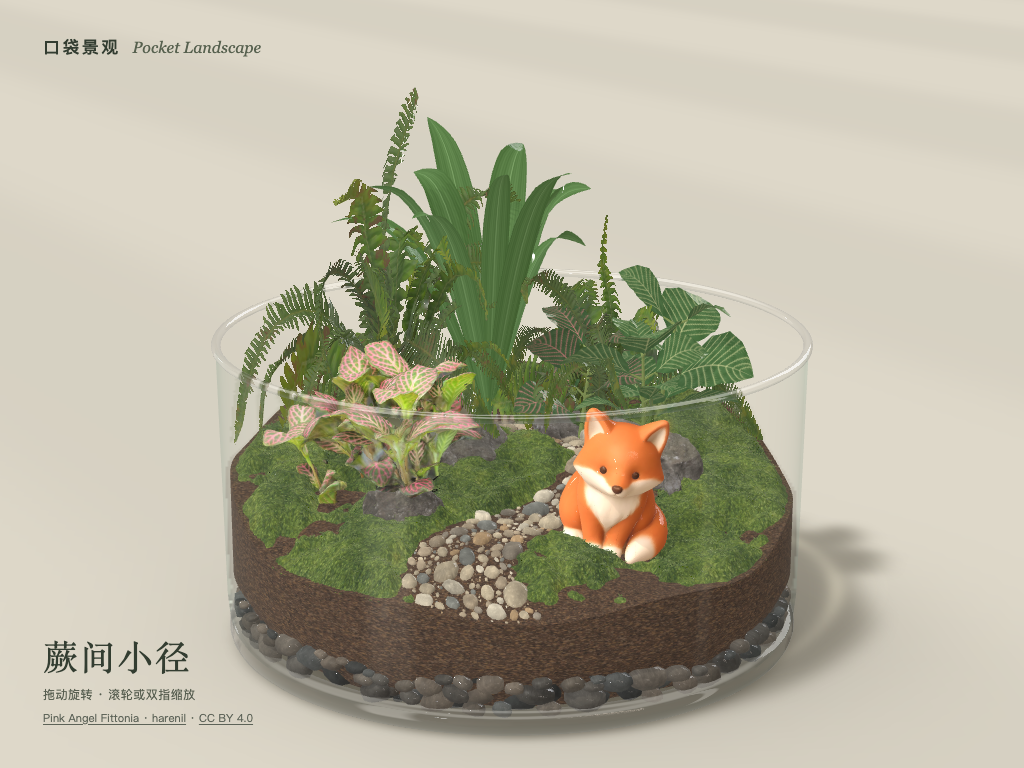
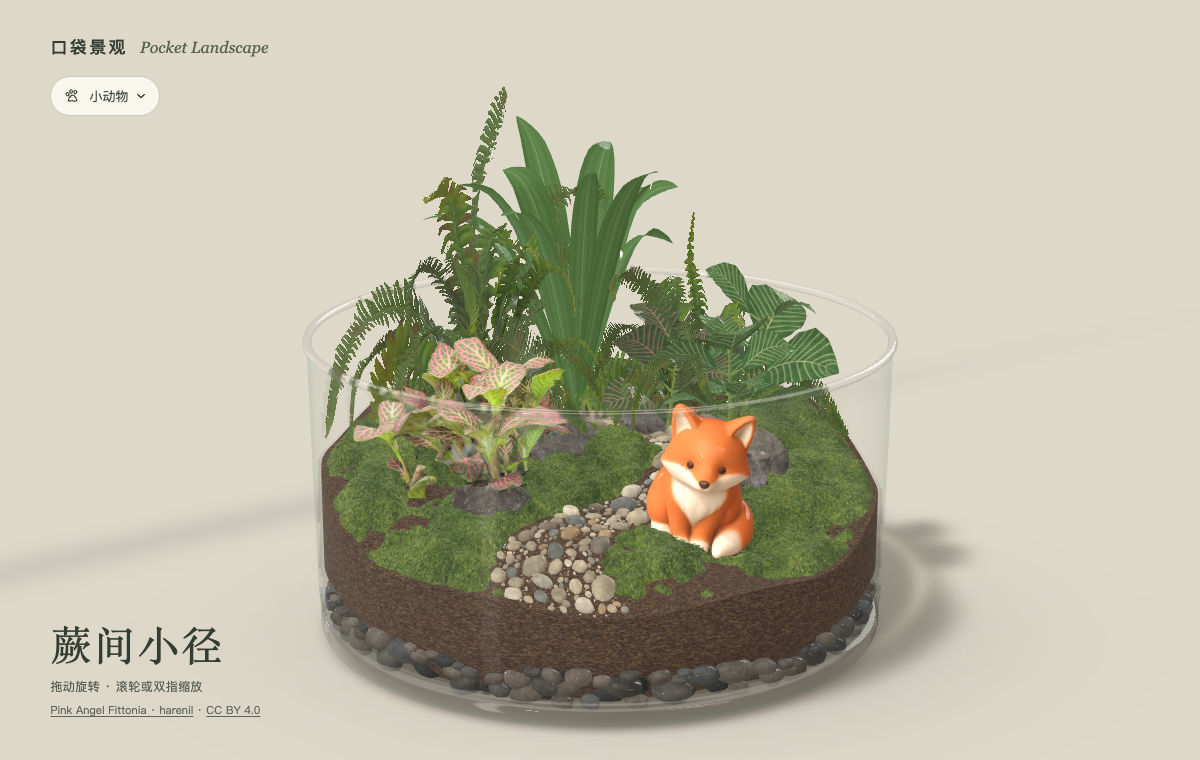
用桌面柔影和杯沿窄高光表现画外晨窗

Changed region(s): [[0.2188, 0.1211, 0.875, 0.9684], [0.0312, 0.8171, 0.25, 0.9684], [0.0312, 0.0303, 0.25, 0.1513]]

diff --git a/source/scene.js b/source/scene.js
@@ -35,11 +35,15 @@ async function start(){
   for(let i=0;i<1024*1024;i++){
     const x=(i%1024-512)*60/1024,y=(Math.floor(i/1024)-512)*60/1024;
     const radial=Math.exp(-((x-.20)**2/1.3+(y+.09)**2/.90));
-    const band=(1+Math.tanh(2.2*Math.sin(.91*x+.47*y+1.3)))*.5;
-    const shade=1-.035*band-.285*radial;
+    // One blurred mullion falls beside the pot. Limit its length so the
+    // distant tabletop stays quiet when seen at a grazing angle.
+    const across=.52*x-.854*y+2.30;
+    const along=.854*x+.52*y+1.10;
+    const frameShadow=Math.exp(-.5*(across/.16)**2-.5*(along/3.4)**2);
+    const shade=1-.078*frameShadow-.285*radial;
     img.data.set([222*shade,216*shade,201*shade,255],i*4);
   }
-  ctx.putImageData(img,0,0);texture.update();texture.uScale=texture.vScale=350/60;texture.uOffset=texture.vOffset=(1-350/60)/2;floorMat.diffuseTexture=texture;ground.material=floorMat;
+  ctx.putImageData(img,0,0);texture.update();texture.wrapU=texture.wrapV=Texture.CLAMP_ADDRESSMODE;texture.uScale=texture.vScale=350/60;texture.uOffset=texture.vOffset=(1-350/60)/2;floorMat.diffuseTexture=texture;ground.material=floorMat;
   const hdr=new HDRCubeTexture('data:application/octet-stream;base64,'+document.getElementById('studio-data').textContent,scene,64,false,true,false,false);
   scene.environmentTexture=hdr;scene.environmentIntensity=.42;
   const shadowPlane=new Mesh('Soft silhouette on tabletop',scene);

diff --git a/source/glass.js b/source/glass.js
@@ -17,16 +17,15 @@ void main() {
   gl_Position = worldViewProjection * vec4(position, 1.);
 }`;
 
-// Studio windows and a dark flag give curved clear glass a reflection to carry
-// across both pale tabletop and dark foliage. Directions stay fixed in the room.
+// A narrow pane on the morning-light side, with soft room fill above.
+// Reflection directions stay fixed as the camera orbits the glass.
 const studioCards = `
 vec2 glassStudio(vec3 r) {
   float a = atan(r.x,r.z);
   float tall = smoothstep(-.62,-.40,r.y)*(1.-smoothstep(.54,.80,r.y));
-  float left = 1.-smoothstep(.10,.24,abs(a+.95));
-  float right = 1.-smoothstep(.035,.085,abs(a-1.33));
+  float pane = 1.-smoothstep(.035,.11,abs(a+.86));
   float ceiling = smoothstep(.38,.72,r.y)*(1.-smoothstep(.85,.99,r.y));
-  float white = max(tall*max(left,.75*right), .83*ceiling);
+  float white = max(tall*pane, .56*ceiling);
   float flag = max(1.-smoothstep(-.65,-.25,r.y),
                    .69*tall*(1.-smoothstep(.09,.25,abs(a+1.31))));
   return vec2(white,flag);

diff --git a/README.en.md b/README.en.md
@@ -26,7 +26,7 @@ Open **小动物** (Animals) in the upper left to choose the fox, resting fawn o
 | What to look for | How it is rendered |
 | --- | --- |
 | Glass wall, rolled rim and thick foot | Babylon.js revolves three cross-sections into separate meshes. In high-quality mode, a shared half-resolution, linear half-float render target captures the contents of the vessel. The thin-wall shader uses thickness and incidence angle to compute refraction and absorption. The rim and foot sample the same capture through physically based materials. HDR reflections and window highlights travel along their curved surfaces as you orbit. [Glass implementation](source/glass.js) |
-| Window light and shadows | A studio HDR environment supplies ambient light and reflections. A directional light stands in for the window. Plants and stones cast shadows on each other through a 2048 × 2048 shadow map with percentage-closer filtering (PCF). The soft tabletop shadow is baked from the model silhouette. A light-aligned shader approximates the bright caustic arc near the foot. [Scene lighting](source/scene.js) · [Tabletop shadow bake](source/shadow.py) |
+| Window light and shadows | A studio HDR environment supplies ambient light and reflections. A directional light stands in for the window. A soft diagonal shadow in the tabletop texture and a narrow highlight on one side of the rim suggest an off-camera morning window. Plants and stones cast shadows on each other through a 2048 × 2048 shadow map with percentage-closer filtering (PCF). The soft tabletop shadow is baked from the model silhouette. A light-aligned shader approximates the bright caustic arc near the foot. [Scene lighting](source/scene.js) · [Tabletop shadow bake](source/shadow.py) |
 | Fittonia, fern and canopy leaves | Diffuse transmission takes its color from the leaf pigment. Fittonia has a soft sheen, while fern leaflets carry a faint waxy reflection. The procedural leaves transmit less light along the midrib. Each fern has subtly crown-oriented normals and a darker base. Cutout coverage compensation helps distant leaflets hold their shape. [Foliage shading](source/foliage.js) · [Matched views](docs/foliage-detail.jpg) |
 | Moss, path and drainage bed | Small clusters of shoots break up the moss surface as it follows the terrain. Flat path pebbles sit partly below the soil, while coarser drainage stones nest against the inner wall. Geometry defines silhouettes and gaps. Color, normal and roughness maps supply the close-up grain. Patches of darker color and lower roughness suggest damp contact between soil and stone. [Moss bed](source/terrarium-floor.py) · [Path](source/path-gravel.py) · [Drainage](source/drainage.js) |
 

diff --git a/README.md b/README.md
@@ -26,7 +26,7 @@ npm run build
 | 看哪里 | 如何渲染 |
 | --- | --- |
 | 杯壁、卷口与厚底 | Babylon.js 分别旋转截面曲线生成三部分几何体。桌面高画质模式用一张半分辨率、线性半浮点渲染目标捕捉缸内景物。薄壁着色器按厚度和入射角计算折射偏移与吸收，卷口和底足的 PBR 材质共用这张纹理。转动视角时，HDR 环境反射和窗光高光沿圆角移动。[玻璃实现](source/glass.js) |
-| 窗光与投影 | 棚拍 HDR 提供环境光和反射，方向光模拟窗光。2048 × 2048 的 PCF 阴影贴图让植物和石头彼此投影，桌面的柔影则从模型轮廓离线烘焙。玻璃底部附近的亮弧由方向光驱动的着色器近似焦散。[场景灯光](source/scene.js) · [桌面投影](source/shadow.py) |
+| 窗光与投影 | 棚拍 HDR 提供环境光和反射，方向光模拟窗光。桌面纹理中的一道柔和斜影和杯沿一侧的窄高光暗示画面外的晨窗。2048 × 2048 的 PCF 阴影贴图让植物和石头彼此投影，桌面的柔影则从模型轮廓离线烘焙。玻璃底部附近的亮弧由方向光驱动的着色器近似焦散。[场景灯光](source/scene.js) · [桌面投影](source/shadow.py) |
 | 网纹草、蕨叶与长叶 | 叶片的漫透射保留原有色素。网纹草表面的高光柔和，蕨叶带一层很轻的蜡质反光。程序化叶片的中脉比边缘透光少。两丛蕨的羽片法线向各自的冠形轻微靠拢，根部用顶点色压暗；远处细羽片的透明裁切随纹理缩小程度补偿。[植物着色](source/foliage.js) · [同机位对照](docs/foliage-detail.jpg) |
 | 苔床、石径与排水层 | 苔面沿地形起伏，表面散布细小叶簇。小径上的扁石部分埋入坡面，底部较粗的排水石沿内壁错叠。真实几何决定轮廓和孔隙，颜色、法线和粗糙度贴图负责近处的颗粒感。土石交界局部压暗并降低粗糙度，呈现湿润感。[苔床](source/terrarium-floor.py) · [小径](source/path-gravel.py) · [排水层](source/drainage.js) |
 
